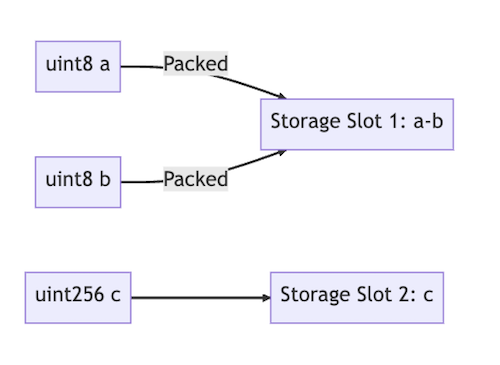
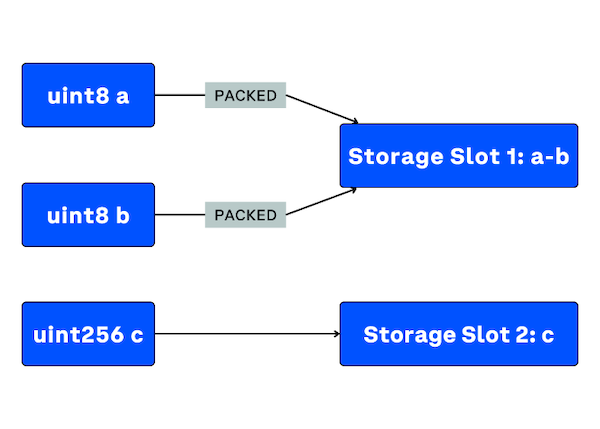
[basecamp] Add new diagrams to base camp (#17)
Update title for images

diff --git a/apps/base-docs/base-camp/docs/introduction-to-ethereum/gas-use-in-eth-transactions.md b/apps/base-docs/base-camp/docs/introduction-to-ethereum/gas-use-in-eth-transactions.md
@@ -30,6 +30,8 @@ The amount of gas required for an operation depends on its complexity. More comp
 
 Gas costs can also vary depending on the state of the network, or more specifically, how congested it is. When there are more transactions waiting to be processed than the network can handle, it will prioritize transactions based on the gas price that was set by the user, meaning that higher gas prices are more likely to get processed first. When the network is congested, gas prices increase to encourage more efficient use of the network's resources and decrease when network usage is lower. This dynamic pricing mechanism ensures that the Ethereum network remains accessible and functional for all users, while also incentivizing responsible and efficient use of the network's resources.
 
+![Gas Costs vs Network Congestion](../../assets/images/introduction-to-ethereum/gas-costs.png)
+
 ---
 
 ## Why is gas necessary?

diff --git a/apps/base-docs/base-camp/docs/erc-721-token/erc-721-standard.md b/apps/base-docs/base-camp/docs/erc-721-token/erc-721-standard.md
@@ -65,6 +65,8 @@ Standardizing non-fungible tokens via the ERC-721 token standard presents substa
 
 For users, the ERC-721 standard offers an intuitive, consistent interface for interacting with a wide array of unique tokens. Regardless of the token's specific use or design, users can reliably check their ownership of tokens, transfer tokens to other addresses, and approve transactions. This consistency enhances usability across the Ethereum platform, from digital art marketplaces to tokenized real estate and gaming applications.
 
+![The Benefits of ERC-721 Standardization](../../assets/images/erc-721/erc-721-standard.png)
+
 ---
 
 ## Applications
